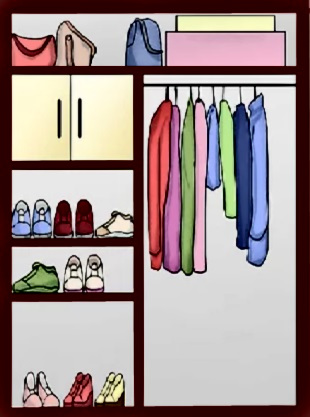
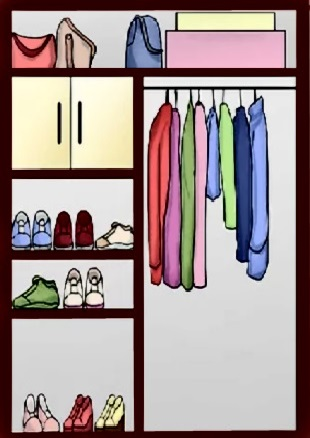
Small adjustments

diff --git a/css/style.css b/css/style.css
@@ -61,6 +61,7 @@ h3 {
 }
 
 h4 {
+  color: red;
   font-size: 15px;
   text-align: center;
   width: 90%;
@@ -126,8 +127,7 @@ h5 {
 }
 
 img {
-  width: 100%;
-  height: 100%;
+  width: 85%;
 }
 
 .content .frontend {
@@ -219,7 +219,7 @@ img {
 
 #clock {
   font-family: "Orbitron", sans-serif;
-  color: magenta;
+  color: red;
   font-size: 59px;
   font-weight: 900;
   text-align: center;
@@ -227,7 +227,7 @@ img {
 }
 
 @keyframes rotate {
-  100% {
+  0% {
     transform: rotateY(360deg);
   }
 }

diff --git a/index.html b/index.html
@@ -239,7 +239,7 @@
                       </div>
                     </div>
                   </div>
-                  <h2 style="color: magenta; font-size: 39px;">Time passes so faster!</h2>
+                  <h2 style="color: red; font-size: 39px;">Time passes so faster!</h2>
               </div>
             </div>
 
